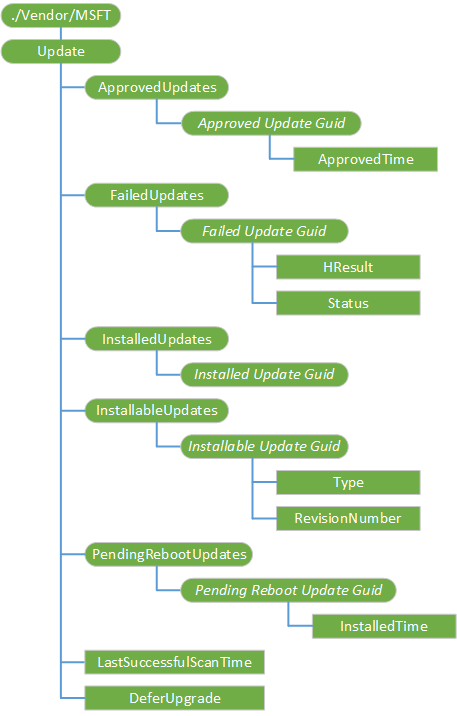
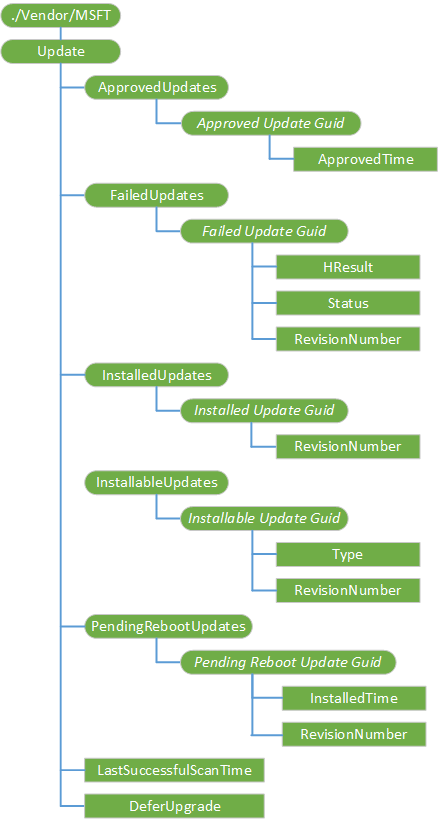
update DDF-add RevisionNumber

diff --git a/docset/customize/mdm/update-csp.md b/docset/customize/mdm/update-csp.md
@@ -74,6 +74,11 @@ Specifies the failed update status (for example, download, install).
 
 Supported operation is Get.
 
+<a href="" id="failedupdates-failed-update-guid-revisionnumber"></a>**FailedUpdates/*Failed Update Guid*/RevisionNumber**  
+The revision number for the update that must be passed in server to server sync to get the metadata for the update.
+
+Supported operation is Get.
+
 <a href="" id="installedupdates"></a>**InstalledUpdates**  
 The updates that are installed on the device.
 
@@ -81,6 +86,11 @@ Supported operation is Get.
 
 <a href="" id="installedupdates-installed-update-guid"></a>**InstalledUpdates/****_Installed Update Guid_**  
 UpdateIDs that represent the updates installed on a device.
+
+Supported operation is Get.
+
+<a href="" id="installedupdates-installed-update-guid-revisionnumber"></a>**InstalledUpdates/*Installed Update Guid*/RevisionNumber**  
+The revision number for the update that must be passed in server to server sync to get the metadata for the update.
 
 Supported operation is Get.
 
@@ -120,6 +130,11 @@ Supported operation is Get.
 
 <a href="" id="pendingrebootupdates-pending-reboot-update-guid-installedtime"></a>**PendingRebootUpdates/*Pending Reboot Update Guid*/InstalledTime**  
 The time the update is installed.
+
+Supported operation is Get.
+
+<a href="" id="pendingrebootupdates-pending-reboot-update-guid-revisionnumber"></a>**PendingRebootUpdates/*Pending Reboot Update Guid*/RevisionNumber**  
+The revision number for the update that must be passed in server to server sync to get the metadata for the update.
 
 Supported operation is Get.
 
